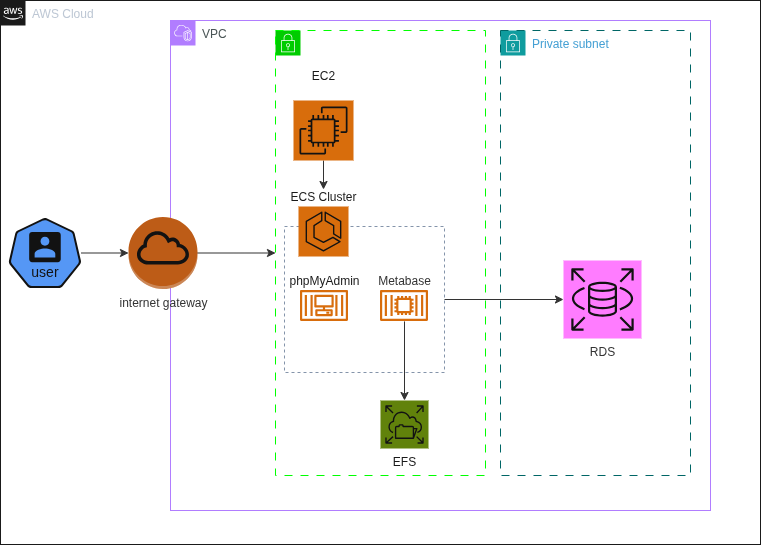
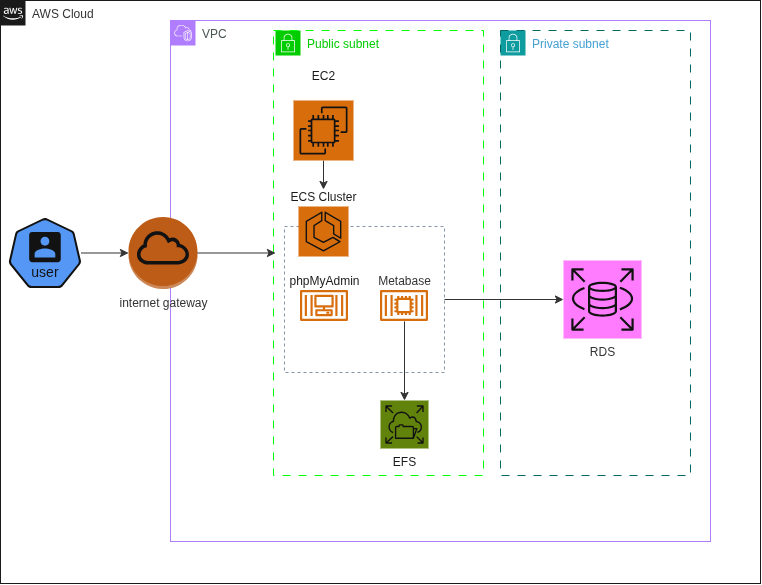
updated architecture diagram and metabase environment variables

diff --git a/README.md b/README.md
@@ -73,6 +73,18 @@ file-based application database on EFS. I would consider using a
 dedicated external application database, such as PostgreSQL, for a
 production deployment.
 
+I configured two environment variables for the Metabase container:
+
+- `MB_DB_FILE` sets the path to the file-based application database on 
+EFS at `/metabase-data/metabase.db`.
+- `JAVA_TOOL_OPTIONS` uses `-XX:MaxRAMPercentage=75.0` to allow the JVM 
+to use up to 75% of the memory available to it for its heap.
+
+I added the JVM setting while troubleshooting Metabase's memory issues. 
+The container's memory limit and the JVM heap setting work together, so I 
+would continue monitoring memory usage rather than assume the current values 
+are optimal for every workload.
+
 ### Security groups
 
 The ECS security group allows inbound traffic on ports `80` and `3000`.
@@ -148,9 +160,6 @@ and that `FileSystemId` was not allowed. I corrected the property name
 to `FilesystemId` and validated the template before deploying again.
 
 ## Screenshots
-
-I will add screenshots of the working applications and AWS resources
-here.
 
 ### phpMyAdmin
 
